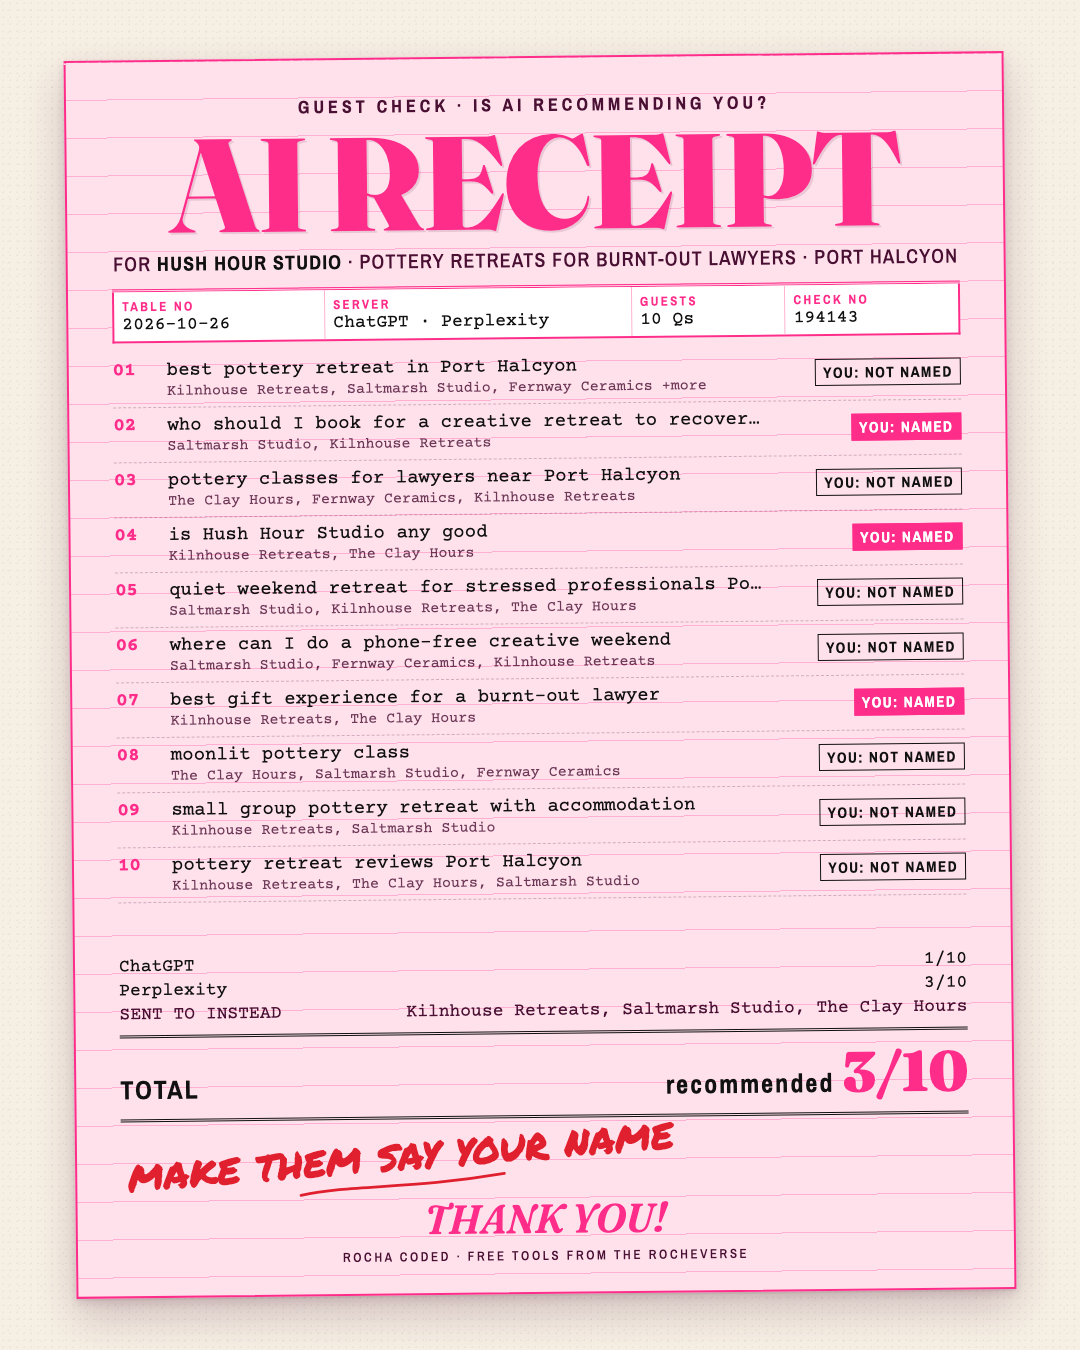
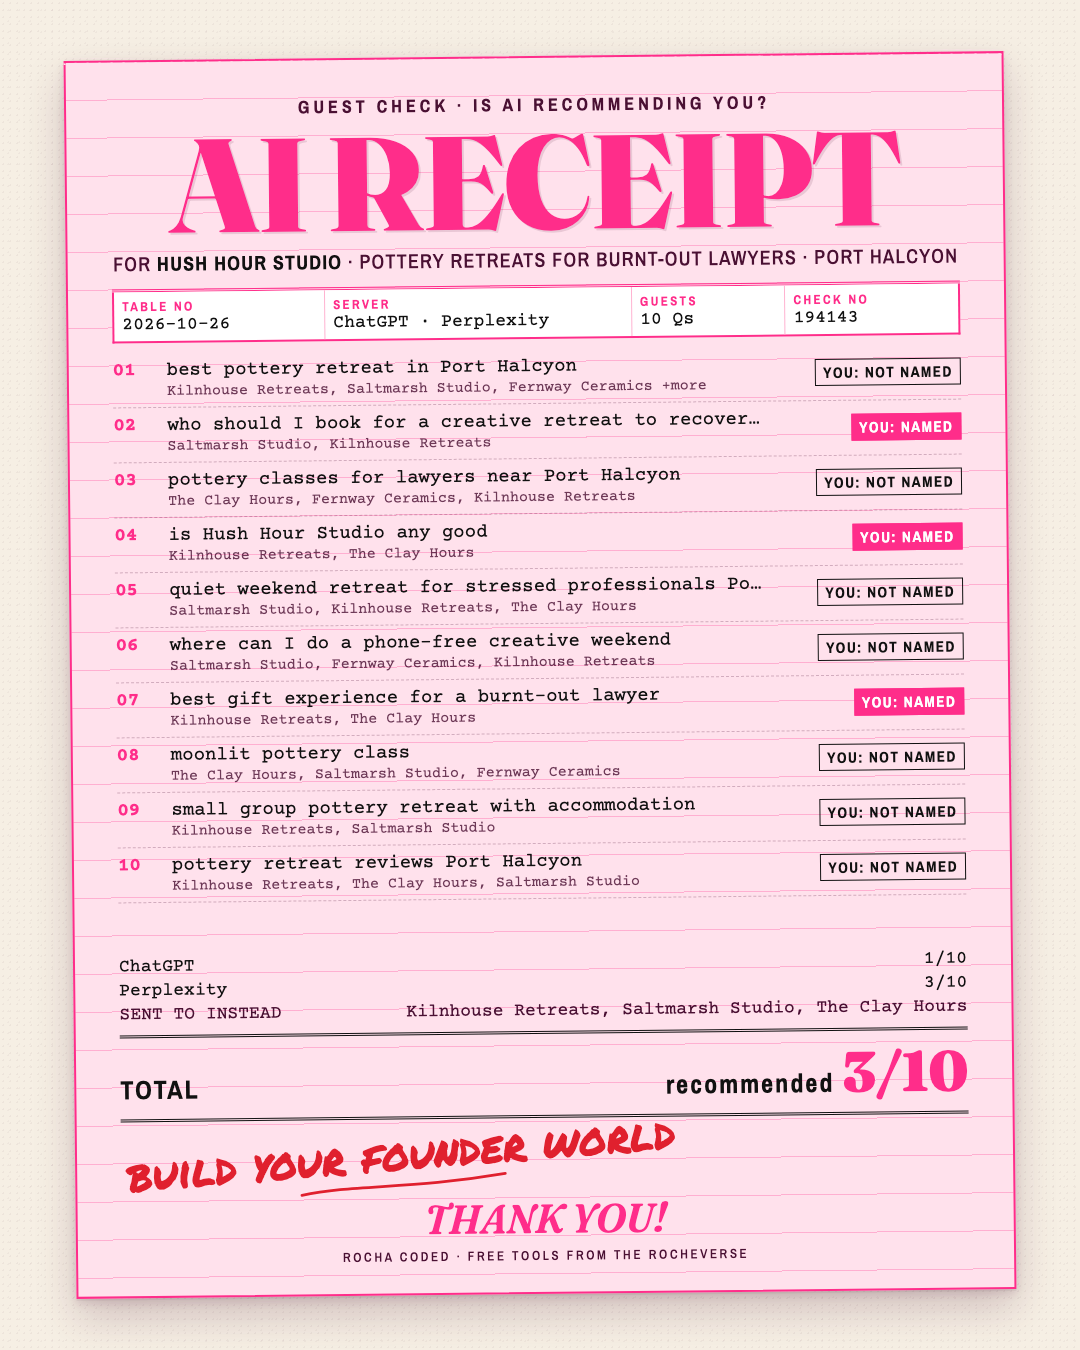
ai-recommends-you: receipt scrawl uses her line verbatim (build your founder world)

Changed region(s): [[0.1222, 0.8089, 0.6417, 0.9022]]

diff --git a/examples/receipt.sample.html b/examples/receipt.sample.html
@@ -133,7 +133,7 @@ body.card .credit { font-size: 13px; }
       <div class="sub tax"><span>SENT TO INSTEAD</span><span>Kilnhouse Retreats, Saltmarsh Studio, The Clay Hours</span></div>
     </div>
     <div class="total"><span>TOTAL</span><span>recommended <b>3/10</b></span></div>
-    <p class="scrawl">make them say your name<svg viewBox="0 0 300 20" aria-hidden="true"><path d="M4 14 C 80 4, 160 18, 296 6" /></svg></p>
+    <p class="scrawl">build your founder world<svg viewBox="0 0 300 20" aria-hidden="true"><path d="M4 14 C 80 4, 160 18, 296 6" /></svg></p>
     <div class="thanks">THANK YOU!</div>
     <div class="credit">Rocha Coded · free tools from the Rocheverse</div>
   </section>

diff --git a/recommend.py b/recommend.py
@@ -254,7 +254,7 @@ def render_receipt(result: dict, meta: dict, name: str, card: bool = False) -> s
       <div class="sub tax"><span>SENT TO INSTEAD</span><span>{_e(_short(instead, 52 if card else 80))}</span></div>
     </div>
     <div class="total"><span>TOTAL</span><span>recommended <b>{result["named"]}/{result["total"]}</b></span></div>
-    <p class="scrawl">make them say your name<svg viewBox="0 0 300 20" aria-hidden="true"><path d="M4 14 C 80 4, 160 18, 296 6" /></svg></p>
+    <p class="scrawl">build your founder world<svg viewBox="0 0 300 20" aria-hidden="true"><path d="M4 14 C 80 4, 160 18, 296 6" /></svg></p>
     <div class="thanks">THANK YOU!</div>
     <div class="credit">Rocha Coded · free tools from the Rocheverse</div>
   </section>

diff --git a/tests/test_recommend.py b/tests/test_recommend.py
@@ -84,7 +84,7 @@ class TestRender(unittest.TestCase):
         page = recommend.render_receipt(r, meta, "Hush Hour Studio")
         self.assertIn("AI RECEIPT", page)
         self.assertIn("THANK YOU!", page)
-        self.assertIn("make them say your name", page)
+        self.assertIn("build your founder world", page)
         self.assertIn("recommended <b>3/11</b>", page)
         self.assertEqual(len(re.findall(r'class="line hit"', page)), 3)
         self.assertEqual(len(re.findall(r'class="line"', page)), 8)

diff --git a/README.md b/README.md
@@ -12,7 +12,7 @@ It writes down who gets named.
 Then it hands you a receipt: recommended x out of 10.
 Plus the three things to publish so you get named next time.
 
-<p align="center"><img src="examples/receipt.sample.png" width="540" alt="A pink guest check titled AI RECEIPT. Ten buyer questions, each marked YOU: NAMED or YOU: NOT NAMED, with a total of recommended 3/10 and a red marker scrawl that says make them say your name."></p>
+<p align="center"><img src="examples/receipt.sample.png" width="540" alt="A pink guest check titled AI RECEIPT. Ten buyer questions, each marked YOU: NAMED or YOU: NOT NAMED, with a total of recommended 3/10 and a red marker scrawl that says build your founder world."></p>
 
 <p align="center"><sub>A sample receipt for a made-up pottery retreat in a made-up town. Every name on it is fictional.</sub></p>
 
